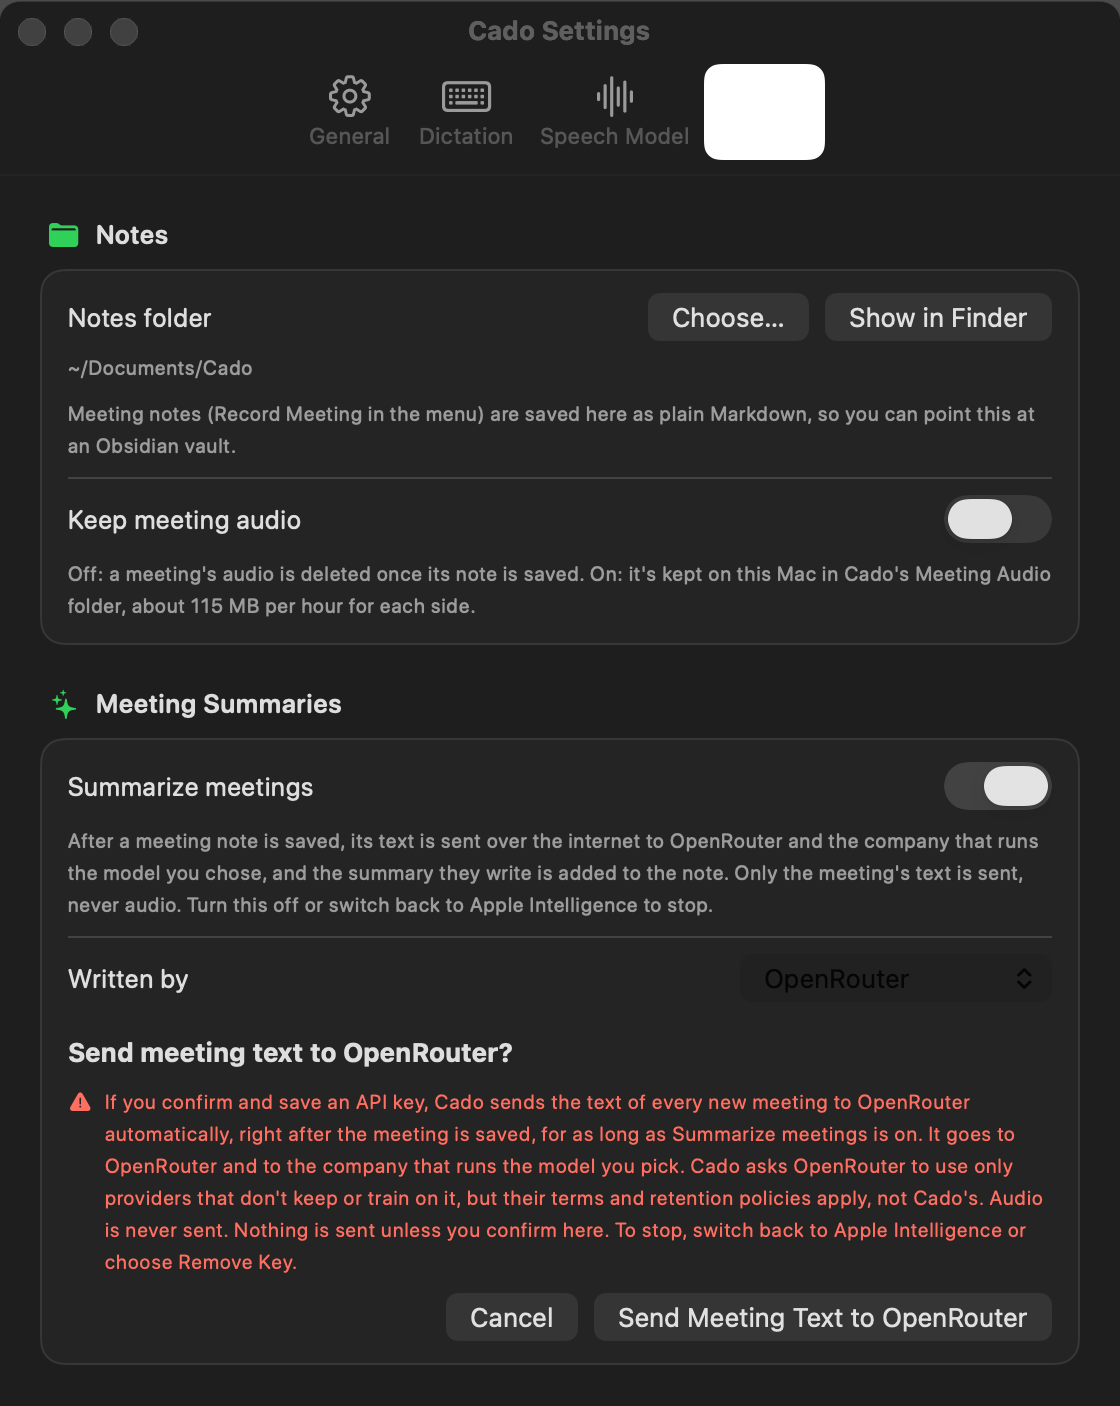
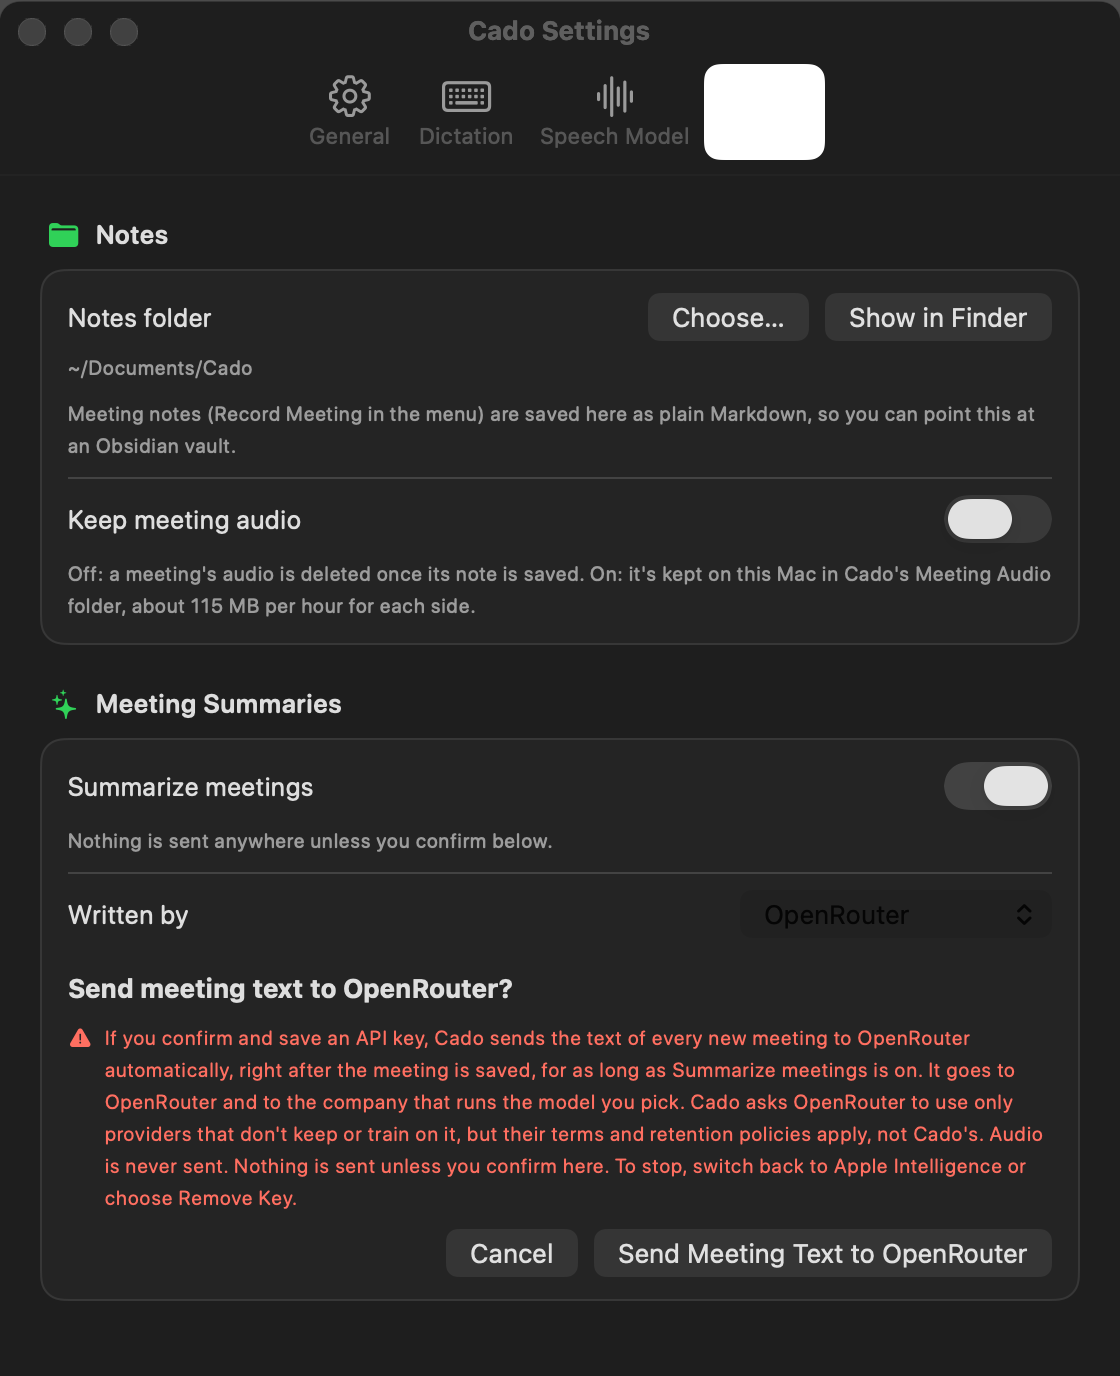
fix: status line stays neutral while OpenRouter confirmation is open (#35)

diff --git a/Sources/Cado/Settings/SettingsViewModel+Summaries.swift b/Sources/Cado/Settings/SettingsViewModel+Summaries.swift
@@ -15,7 +15,7 @@ extension SettingsViewModel {
     var summariesAvailable: Bool { summaryAvailability.isAvailable }
 
     var summariesNote: String {
-        if openRouterState.awaitingConsent { return OpenRouterCopy.pendingNote }
+        if showsOpenRouterConsent { return OpenRouterCopy.pendingNote }
         return SummarySettingsCopy.note(summaryAvailability, provider: configStore.config.summaryProviderChoice)
     }
 
